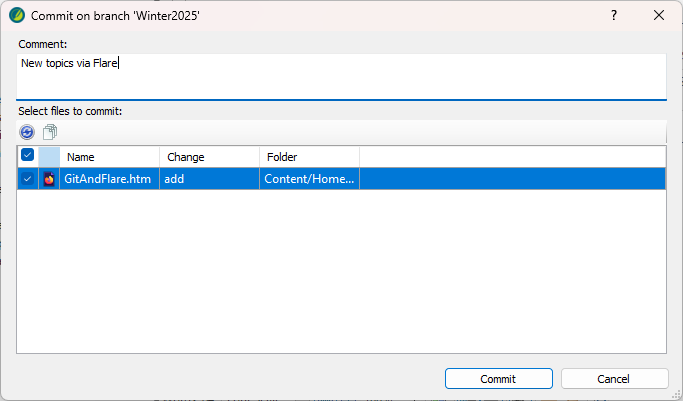
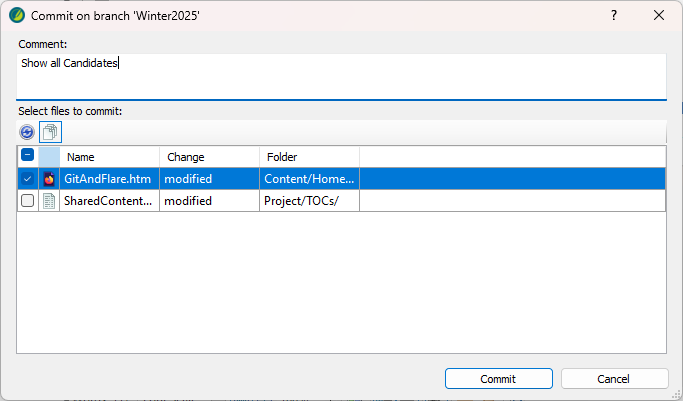
Testing Flare and Git

diff --git a/Week10-PortalsHelp/ClassFlareProject/Content/HomeworkHelpers/GitAndFlare.htm b/Week10-PortalsHelp/ClassFlareProject/Content/HomeworkHelpers/GitAndFlare.htm
@@ -30,21 +30,47 @@
         <p>
             <img src="art/GitContentExplorer.png" />
         </p>
-        <h2>Add files to Git</h2>
+        <h2>Commit Files</h2>
         <ol>
             <li>
-                <p>Select <span class="uicontrol">File &gt; Source Control &gt; Add</span>.</p>
+                <p>Select one of the following: </p>
+                <ul>
+                    <li>
+                        <p><span class="uicontrol">File &gt; Source Control &gt; Add</span>
+                            <br />This option is available only if there are new files to add.</p>
+                    </li>
+                    <li>
+                        <p>File &gt; Source Control &gt; Commit</p>
+                        <p>This option is available only if there are saved changed files.</p>
+                    </li>
+                </ul>
             </li>
             <li>
-                <p>Provide a Comment and confirm the correct set of files is selected.</p>
+                <p>Click <span class="uicontrol">Show all Candidates</span> (<img src="art/ShowAllCandidates.png" />).</p>
+                <p>If you do not click this option, you will only be able to add or commit the file you are currently editing.</p>
+            </li>
+            <li>
+                <p>Confirm the correct set of files is selected.</p>
                 <p>
                     <img src="art/SourceControlAdd.png" />
                 </p>
             </li>
             <li>
+                <p>Provide a Comment.</p>
+            </li>
+            <li>
                 <p>Click <span class="uicontrol">Commit</span>.</p>
             </li>
         </ol>
-        <p>&#160;</p>
+        <h2>Push changes to GitHub</h2>
+        <ol>
+            <li>
+                <p>Commit all of your changes.</p>
+                <p>If you have unsaved changes, <MadCap:variable name="General.Tool" /> does not finish the push.</p>
+            </li>
+            <li>
+                <p>On the Source Control ribbon, click Push.</p>
+            </li>
+        </ol>
     </body>
 </html>

diff --git a/Week10-PortalsHelp/ClassFlareProject/Content/A_Demo/References.htm b/Week10-PortalsHelp/ClassFlareProject/Content/A_Demo/References.htm
@@ -1,0 +1,17 @@
+<?xml version="1.0" encoding="utf-8"?>
+<html xmlns:MadCap="http://www.madcapsoftware.com/Schemas/MadCap.xsd">
+    <head>
+    </head>
+    <body>
+        <h1>Useful References</h1>
+        <p>As I&#160;was updating the project, my google searches found a few links that will probably also be of use to you.</p>
+        <ul>
+            <li>
+                <p><a href="https://docs.madcapsoftware.com/flare2024r2/Flare-Source-Control-Guide-Git.pdf">https://docs.madcapsoftware.com/flare2024r2/Flare-Source-Control-Guide-Git.pdf</a> - Documentation on using <MadCap:variable name="General.Tool" /> and Git.</p>
+            </li>
+            <li>
+                <p>&#160;</p>
+            </li>
+        </ul>
+    </body>
+</html>
